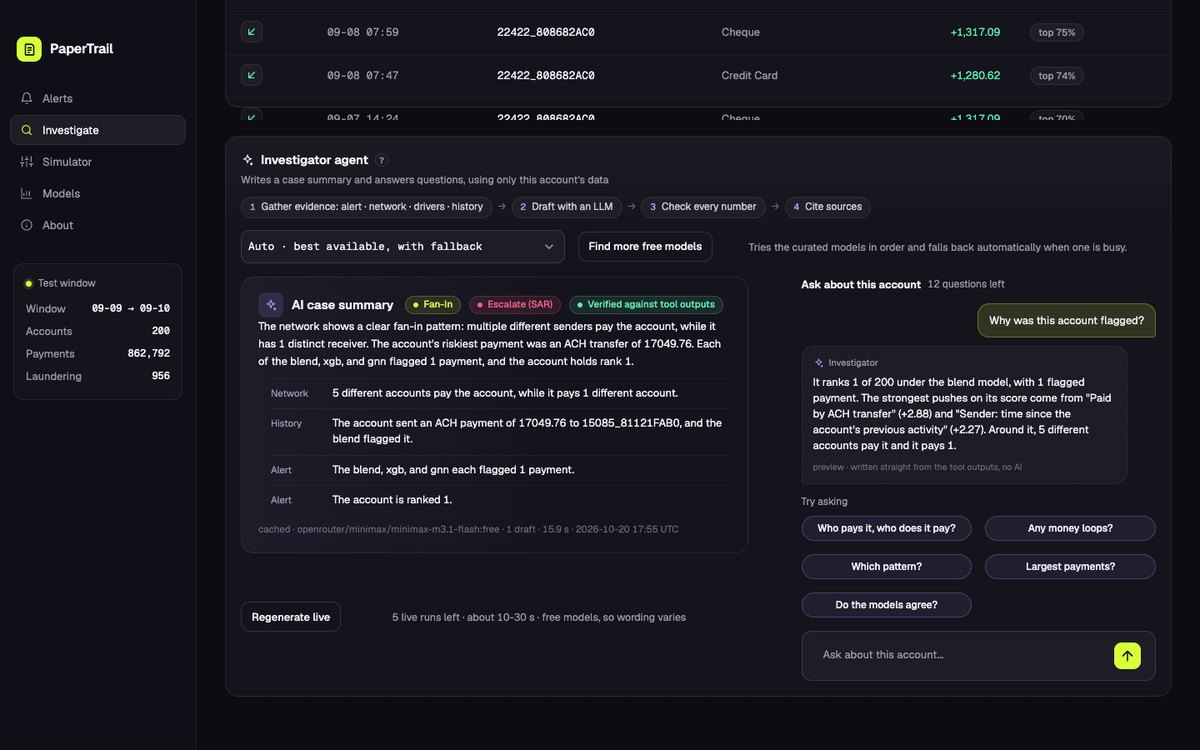
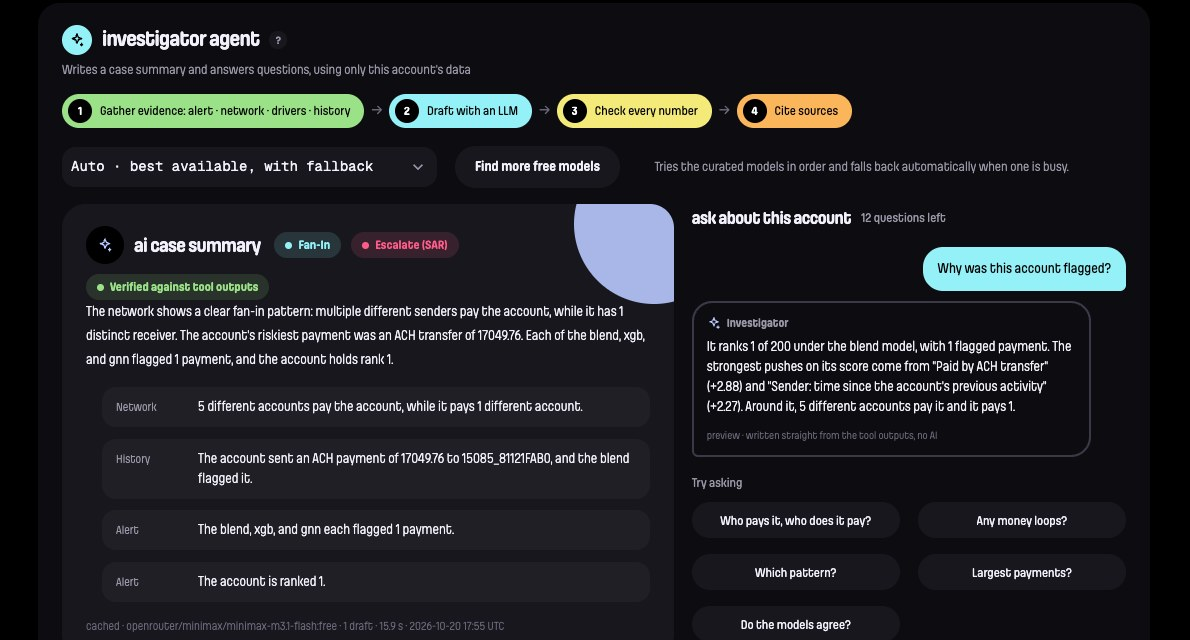
docs: README demo GIF and agent screenshot for the new design

diff --git a/README.md b/README.md
@@ -6,7 +6,7 @@ PaperTrail ranks bank accounts and payments by how suspicious they look, using g
 
 **[Live demo](https://papertrail-aml.streamlit.app)** · **[Drift report](https://abhibarnwal707.github.io/PaperTrail/)** · **[Experiments on DagsHub](https://dagshub.com/abhibarnwal707/papertrail)**
 
-![PaperTrail console: alert queue, investigation, investigator agent, simulator, models](docs/assets/demo.gif)
+![PaperTrail console: home, alert queue, investigation with the investigator agent, simulator, models, light theme](docs/assets/demo.gif)
 
 | | Test result (Sep 9–10, 862,792 unseen payments, 956 laundering) |
 |---|---|
